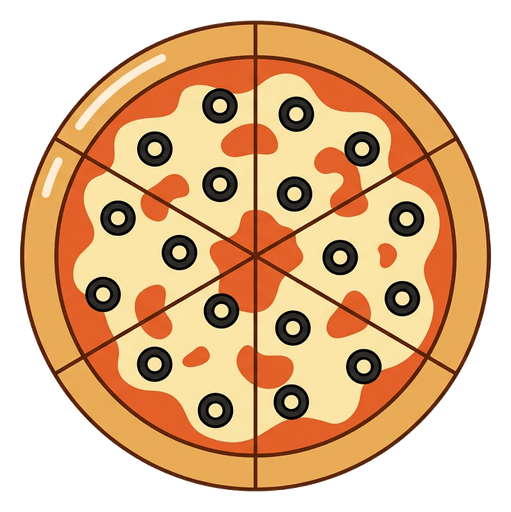
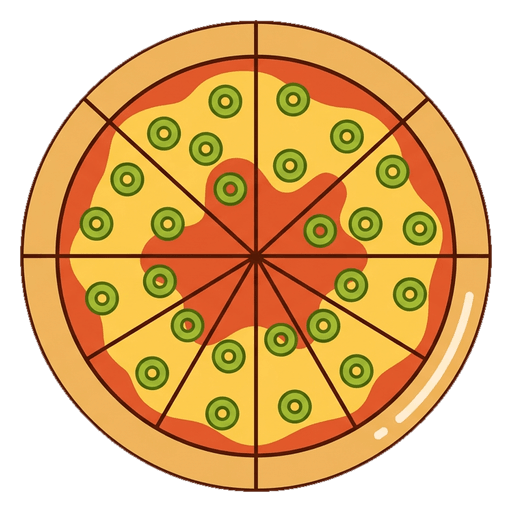
Back-up (niet online): afgekeurde plaatjes ronde 1 opnieuw gemaakt (boek, hoepel, pennenbeker, tekendoos, dozen even groot, olijven groen, stoelenkring, spaarpot met munten, krentenbol, planeet); regel 1.21
Claude-Session: https://claude.ai/code/session_019HGXxT1wyk7NJR8Z8Kb8k1

diff --git a/src/lib/voorwerpen/lijst-meten.ts b/src/lib/voorwerpen/lijst-meten.ts
@@ -31,7 +31,7 @@ export const METEN: Voorwerp[] = [
     naam: "pizza-olijven",
     titel: "Pizza met olijven",
     groep: "eten",
-    onderwerp: "a round pizza with black olive rings seen from above, cut into six slices",
+    onderwerp: "a round pizza with slices of green olives seen from above, cut into six slices",
     schets: `<circle ${R} cx="100" cy="100" r="90" fill="#f0b15c"/><circle cx="100" cy="100" r="74" fill="#e2563f"/><circle cx="72" cy="80" r="14" fill="#ffe08a"/><circle cx="130" cy="120" r="14" fill="#ffe08a"/><circle cx="64" cy="120" r="8" fill="none" stroke="#1d2340" stroke-width="6"/><circle cx="122" cy="74" r="8" fill="none" stroke="#1d2340" stroke-width="6"/><circle cx="100" cy="104" r="8" fill="none" stroke="#1d2340" stroke-width="6"/>`,
   },
   {
@@ -87,7 +87,7 @@ export const METEN: Voorwerp[] = [
     naam: "olijf",
     titel: "Olijf",
     groep: "fruit",
-    onderwerp: "one green olive",
+    onderwerp: "one green olive, oval, shiny",
     schets: `<ellipse ${R} cx="100" cy="100" rx="78" ry="60" fill="#6b8e3a"/><ellipse cx="120" cy="84" rx="18" ry="14" fill="#3d5a1f"/>`,
   },
   {
@@ -137,14 +137,14 @@ export const METEN: Voorwerp[] = [
     naam: "doos-rood",
     titel: "Rode doos",
     groep: "winkel",
-    onderwerp: "a closed flat red cardboard box, seen from the front",
+    onderwerp: "one closed square red cardboard box, seen from the front and slightly above",
     schets: `<rect ${R} x="10" y="74" width="180" height="52" rx="8" fill="#e8453c"/><path d="M20 90 H180" stroke="#1d2340" stroke-width="4"/>`,
   },
   {
     naam: "doos-blauw",
     titel: "Blauwe doos",
     groep: "winkel",
-    onderwerp: "a closed flat blue cardboard box, seen from the front",
+    onderwerp: "one closed square blue cardboard box, seen from the front and slightly above (same box as doos-rood, other color)",
     schets: `<rect ${R} x="10" y="74" width="180" height="52" rx="8" fill="#4b8af5"/><path d="M20 90 H180" stroke="#1d2340" stroke-width="4"/>`,
   },
   {
@@ -222,7 +222,7 @@ export const METEN: Voorwerp[] = [
     naam: "boek",
     titel: "Boek",
     groep: "huis",
-    onderwerp: "one closed blue book lying flat, seen from the side",
+    onderwerp: "one closed blue hardcover book lying flat, seen from slightly above and the side so the cover and the pages are visible",
     schets: `<rect ${R} x="16" y="76" width="168" height="48" rx="6" fill="#4b8af5"/><path d="M160 84 V116" stroke="#fff7ea" stroke-width="5"/>`,
   },
   {

diff --git a/src/lib/voorwerpen/lijst-tijd.ts b/src/lib/voorwerpen/lijst-tijd.ts
@@ -138,14 +138,14 @@ export const TIJD: Voorwerp[] = [
     naam: "stoelenkring",
     titel: "Stoeltjes in een kring",
     groep: "huis",
-    onderwerp: "four small empty colorful school chairs standing in a half circle, seen from the front, large and clear",
+    onderwerp: "six small empty colorful school chairs arranged in a circle, all facing the middle, seen from above at an angle",
     schets: `<ellipse class="r" cx="100" cy="112" rx="80" ry="44" fill="#c9efd2"/><g fill="#f2715e"><rect class="r" x="88" y="52" width="24" height="22" rx="4"/><rect class="r" x="24" y="98" width="24" height="22" rx="4"/><rect class="r" x="152" y="98" width="24" height="22" rx="4"/><rect class="r" x="52" y="140" width="24" height="22" rx="4"/><rect class="r" x="124" y="140" width="24" height="22" rx="4"/></g>`,
   },
   {
     naam: "hoepel",
     titel: "Hoepel met bal",
     groep: "speelgoed",
-    onderwerp: "a coral gymnastics hoop standing upright with a small yellow ball on the floor next to it",
+    onderwerp: "one coral gymnastics hoop standing upright, a simple clean round ring, nothing else",
     schets: `<ellipse class="r" cx="100" cy="128" rx="80" ry="40" fill="none" stroke="#f2715e"/><circle class="r" cx="100" cy="110" r="34" fill="#ffd84a"/>`,
   },
   {

diff --git a/src/lib/voorwerpen/lijst-plussommen.ts b/src/lib/voorwerpen/lijst-plussommen.ts
@@ -46,7 +46,7 @@ export const PLUSSOMMEN: Voorwerp[] = [
     naam: "krentenbol",
     titel: "Krentenbol",
     groep: "eten",
-    onderwerp: "a round shiny brown currant bun with dark raisins, flat bottom, seen from the side",
+    onderwerp: "a round shiny light-brown bread bun with a few dark raisins on top, seen from the side",
     schets: `<path class="r" d="M28 150 C24 30 176 30 172 150 Z" fill="#c8792f"/><ellipse cx="62" cy="120" rx="8" ry="6" fill="#3a1d0b"/><ellipse cx="100" cy="88" rx="8" ry="6" fill="#3a1d0b"/><ellipse cx="136" cy="112" rx="8" ry="6" fill="#3a1d0b"/><ellipse cx="88" cy="132" rx="8" ry="6" fill="#3a1d0b"/><ellipse cx="124" cy="140" rx="8" ry="6" fill="#3a1d0b"/>`,
   },
   {

diff --git a/src/lib/voorwerpen/lijst-geld.ts b/src/lib/voorwerpen/lijst-geld.ts
@@ -13,7 +13,7 @@ export const GELD: Voorwerp[] = [
     naam: "spaarpot",
     titel: "Spaarpot (glazen pot)",
     groep: "huis",
-    onderwerp: "a round glass money jar with a red lid that has a coin slot, empty",
+    onderwerp: "a round glass money jar with a red lid that has a coin slot, with a few gold coins inside at the bottom",
     schets: `<path class="r" d="M58 70 q-30 24 -30 64 q0 54 72 54 q72 0 72 -54 q0 -40 -30 -64z" fill="#cfeaf7"/><rect class="r" x="46" y="40" width="108" height="32" rx="10" fill="#f2715e"/><rect x="78" y="50" width="44" height="9" rx="4" fill="#1d2340"/>`,
   },
   {

diff --git a/src/lib/voorwerpen/lijst-vormen.ts b/src/lib/voorwerpen/lijst-vormen.ts
@@ -58,7 +58,7 @@ export const VORMEN: Voorwerp[] = [
     naam: "tekendoos",
     titel: "Tekendoos",
     groep: "huis",
-    onderwerp: "an open empty wooden box with low sides, seen from the front and slightly above",
+    onderwerp: "an open box of colored pencils, the pencils lying in a row inside, seen from the front and slightly above",
     schets: `<path ${R} d="M20 88 L40 66 H160 L180 88 Z" fill="#8a5a32"/><rect ${R} x="20" y="88" width="160" height="90" rx="6" fill="#d39b62"/>`,
   },
   /* --- de bloembak (patronen) --- */

diff --git a/src/lib/voorwerpen/lijst-splitsen.ts b/src/lib/voorwerpen/lijst-splitsen.ts
@@ -94,7 +94,7 @@ export const SPLITSEN: Voorwerp[] = [
     naam: "pennenbeker",
     titel: "Pennenbeker",
     groep: "huis",
-    onderwerp: "an empty round yellow pencil cup with a thin white stripe, side view",
+    onderwerp: "a round yellow pencil cup filled with a few colored pencils and pens sticking out of the top, side view",
     schets: `<path class="r" d="M50 60 h100 l-10 120 h-80z" fill="#ffc83b"/><ellipse class="r" cx="100" cy="60" rx="50" ry="10" fill="#ffe38a"/>`,
   },
   {

diff --git a/src/lib/voorwerpen/lijst-piraat.ts b/src/lib/voorwerpen/lijst-piraat.ts
@@ -87,7 +87,7 @@ export const PIRAAT: Voorwerp[] = [
     naam: "planeet",
     titel: "Planeet",
     groep: "ruimte",
-    onderwerp: "a small round blue planet with a few light spots",
+    onderwerp: "a small round planet with blue oceans and green land and a few white clouds, clearly a planet",
     schets: `<circle class="r" cx="100" cy="100" r="66" fill="#4f8fe8"/><circle cx="76" cy="80" r="14" fill="#9fc6ff"/><circle cx="128" cy="124" r="10" fill="#9fc6ff"/>`,
   },
   {

diff --git a/MAGNIFIC-PROMPTS.md b/MAGNIFIC-PROMPTS.md
@@ -71,7 +71,7 @@ an orange tangerine with one small green leaf, simple flat illustration for a ch
 Lessen: Pizza's vergelijken (`squla-meten-pizza-1`), Pizza's vergelijken (moeilijker) (`squla-meten-pizza-2`), Pizza's vergelijken (nog moeilijker) (`squla-meten-pizza-3`), Vol, leeg, zwaar en licht (`squla-meten-hoeveelheden-1`), Vol, leeg, zwaar en licht (moeilijker) (`squla-meten-hoeveelheden-2`), Hoe groot is het? (`squla-meten-oppervlakte-1`), Hoe groot is het? (moeilijker) (`squla-meten-oppervlakte-2`)
 
 ```
-one green olive, simple flat illustration for a children's math app: solid flat colors, one soft highlight, thin dark outline, minimal details, no gradients, no shadow, no face, no eyes, no text. Single object centered on a plain pure white background.
+one green olive, oval, shiny, simple flat illustration for a children's math app: solid flat colors, one soft highlight, thin dark outline, minimal details, no gradients, no shadow, no face, no eyes, no text. Single object centered on a plain pure white background.
 ```
 
 ### 8. Peer — `peer.png` — ✅ gegenereerd
@@ -273,7 +273,7 @@ a bowl of orange tomato soup, side view, simple flat illustration for a children
 Lessen: Plussommen in de bakkerij (`squla-plus-bakkerij-1`), Plussommen in de bakkerij (moeilijker) (`squla-plus-bakkerij-2`), Plussommen in de bakkerij (nog moeilijker) (`squla-plus-bakkerij-3`)
 
 ```
-a round shiny brown currant bun with dark raisins, flat bottom, seen from the side, simple flat illustration for a children's math app: solid flat colors, one soft highlight, thin dark outline, minimal details, no gradients, no shadow, no face, no eyes, no text. Single object centered on a plain pure white background.
+a round shiny light-brown bread bun with a few dark raisins on top, seen from the side, simple flat illustration for a children's math app: solid flat colors, one soft highlight, thin dark outline, minimal details, no gradients, no shadow, no face, no eyes, no text. Single object centered on a plain pure white background.
 ```
 
 ### 33. Leeg hoorntje — `hoorntje.png` — ✅ gegenereerd
@@ -313,7 +313,7 @@ a round cheese pizza seen from above, tomato sauce and melted cheese, cut into s
 Lessen: Pizza's vergelijken (`squla-meten-pizza-1`), Pizza's vergelijken (moeilijker) (`squla-meten-pizza-2`), Pizza's vergelijken (nog moeilijker) (`squla-meten-pizza-3`), Vol, leeg, zwaar en licht (`squla-meten-hoeveelheden-1`), Vol, leeg, zwaar en licht (moeilijker) (`squla-meten-hoeveelheden-2`), Hoe groot is het? (`squla-meten-oppervlakte-1`), Hoe groot is het? (moeilijker) (`squla-meten-oppervlakte-2`)
 
 ```
-a round pizza with black olive rings seen from above, cut into six slices, simple flat illustration for a children's math app: solid flat colors, one soft highlight, thin dark outline, minimal details, no gradients, no shadow, no face, no eyes, no text. Single object centered on a plain pure white background.
+a round pizza with slices of green olives seen from above, cut into six slices, simple flat illustration for a children's math app: solid flat colors, one soft highlight, thin dark outline, minimal details, no gradients, no shadow, no face, no eyes, no text. Single object centered on a plain pure white background.
 ```
 
 ### 38. Pizza met salami — `pizza-salami.png` — ✅ gegenereerd
@@ -403,7 +403,7 @@ an orange basketball with black lines, simple flat illustration for a children's
 Lessen: Dagen van de week (`squla-tijd-dagen-1`), Dagen van de week (moeilijker) (`squla-tijd-dagen-2`), Dagen van de week (nog moeilijker) (`squla-tijd-dagen-3`), De kalender (`squla-tijd-kalender-1`), De kalender (moeilijker) (`squla-tijd-kalender-2`), Tijden (`squla-tijd-tijden-1`), Tijden (moeilijker) (`squla-tijd-tijden-2`)
 
 ```
-a coral gymnastics hoop standing upright with a small yellow ball on the floor next to it, simple flat illustration for a children's math app: solid flat colors, one soft highlight, thin dark outline, minimal details, no gradients, no shadow, no face, no eyes, no text. Single object centered on a plain pure white background.
+one coral gymnastics hoop standing upright, a simple clean round ring, nothing else, simple flat illustration for a children's math app: solid flat colors, one soft highlight, thin dark outline, minimal details, no gradients, no shadow, no face, no eyes, no text. Single object centered on a plain pure white background.
 ```
 
 ### 49. Knikker — `knikker.png` — ✅ gegenereerd
@@ -589,7 +589,7 @@ a big old silver-grey rocket with rivets and a small round door, standing uprigh
 Lessen: Getallen op hun plek (`squla-getallenlijn-rangschikken-1`), Getallen op hun plek (moeilijker) (`squla-getallenlijn-rangschikken-2`), Getallen op hun plek (nog moeilijker) (`squla-getallenlijn-rangschikken-3`), Het raketje op de getallenlijn (`squla-getallenlijn-kat-1`), Het raketje op de getallenlijn (moeilijker) (`squla-getallenlijn-kat-2`), Dingen op de getallen (`squla-getallenlijn-dieren-1`), Dingen op de getallen (moeilijker) (`squla-getallenlijn-dieren-2`), Dingen op de getallen (nog moeilijker) (`squla-getallenlijn-dieren-3`), Terugtellen tot de start (`squla-getallenlijn-terugtellen-1`), Schattenjacht: plussommen (`squla-piraat-1`), Schattenjacht: plus en min (`squla-piraat-3`), Rekenmix 1 (moeilijker) (`squla-rekenmix-mix1-2`), Rekenmix 1 (nog moeilijker) (`squla-rekenmix-mix1-3`), Rekenmix 3 (moeilijker) (`squla-rekenmix-mix3-2`), Rekenmix 4 (`squla-rekenmix-mix4-1`), Rekenmix 4 (nog moeilijker) (`squla-rekenmix-mix4-3`), Tellen in rijtjes (nog moeilijker) (`squla-tellen-resultatief1-3`), Hoeveel zie je? (`squla-tellen-resultatief2-1`), Grote groepen tellen (`squla-tellen-resultatief3-1`), Grote groepen tellen (moeilijker) (`squla-tellen-resultatief3-2`), Grote groepen tellen (nog moeilijker) (`squla-tellen-resultatief3-3`), Patronen (moeilijker) (`squla-vormen-patronen-2`)
 
 ```
-a small round blue planet with a few light spots, simple flat illustration for a children's math app: solid flat colors, one soft highlight, thin dark outline, minimal details, no gradients, no shadow, no face, no eyes, no text. Single object centered on a plain pure white background.
+a small round planet with blue oceans and green land and a few white clouds, clearly a planet, simple flat illustration for a children's math app: solid flat colors, one soft highlight, thin dark outline, minimal details, no gradients, no shadow, no face, no eyes, no text. Single object centered on a plain pure white background.
 ```
 
 ### 72. Planeet met ring — `planeet-ring.png` — ✅ gegenereerd
@@ -689,7 +689,7 @@ a broom with a wooden stick and yellow bristles, simple flat illustration for a 
 Lessen: Zakgeld sparen (moeilijker) (`squla-geld-zakgeld-2`), Pizza's vergelijken (`squla-meten-pizza-1`), Pizza's vergelijken (moeilijker) (`squla-meten-pizza-2`), Pizza's vergelijken (nog moeilijker) (`squla-meten-pizza-3`), Vol, leeg, zwaar en licht (`squla-meten-hoeveelheden-1`), Vol, leeg, zwaar en licht (moeilijker) (`squla-meten-hoeveelheden-2`), Hoe groot is het? (`squla-meten-oppervlakte-1`), Hoe groot is het? (moeilijker) (`squla-meten-oppervlakte-2`), Minsommen: hoeveel over? (heel moeilijk) (`squla-min-machine-4`), Rekenmix 1 (moeilijker) (`squla-rekenmix-mix1-2`), Dagen van de week (`squla-tijd-dagen-1`), Dagen van de week (moeilijker) (`squla-tijd-dagen-2`), Dagen van de week (nog moeilijker) (`squla-tijd-dagen-3`), De kalender (`squla-tijd-kalender-1`), De kalender (moeilijker) (`squla-tijd-kalender-2`), Tijden (`squla-tijd-tijden-1`), Tijden (moeilijker) (`squla-tijd-tijden-2`), Patronen (`squla-vormen-patronen-1`), Patronen (moeilijker) (`squla-vormen-patronen-2`), Opruimen (`squla-vormen-opruimen-1`), Links, rechts, boven, onder (`squla-vormen-orienteren-1`)
 
 ```
-one closed blue book lying flat, seen from the side, simple flat illustration for a children's math app: solid flat colors, one soft highlight, thin dark outline, minimal details, no gradients, no shadow, no face, no eyes, no text. Single object centered on a plain pure white background.
+one closed blue hardcover book lying flat, seen from slightly above and the side so the cover and the pages are visible, simple flat illustration for a children's math app: solid flat colors, one soft highlight, thin dark outline, minimal details, no gradients, no shadow, no face, no eyes, no text. Single object centered on a plain pure white background.
 ```
 
 ### 84. Bord — `bord.png` — ✅ gegenereerd
@@ -865,7 +865,7 @@ a grey kitchen oven seen from the front, with a round cake tin with cake batter 
 Lessen: Eerlijk verdelen (`squla-splits-delen-1`)
 
 ```
-an empty round yellow pencil cup with a thin white stripe, side view, simple flat illustration for a children's math app: solid flat colors, one soft highlight, thin dark outline, minimal details, no gradients, no shadow, no face, no eyes, no text. Single object centered on a plain pure white background.
+a round yellow pencil cup filled with a few colored pencils and pens sticking out of the top, side view, simple flat illustration for a children's math app: solid flat colors, one soft highlight, thin dark outline, minimal details, no gradients, no shadow, no face, no eyes, no text. Single object centered on a plain pure white background.
 ```
 
 ### 106. Picknickkleed — `picknickkleed.png` — ✅ gegenereerd
@@ -961,7 +961,7 @@ an old golden key, lying sideways, simple flat illustration for a children's mat
 Lessen: Munten en briefjes (`squla-geld-geldmachine-1`), Munten en briefjes (moeilijker) (`squla-geld-geldmachine-2`), Zakgeld sparen (`squla-geld-zakgeld-1`), Zakgeld sparen (moeilijker) (`squla-geld-zakgeld-2`), Geld tellen (`squla-geld-geld-1`), Geld tellen (moeilijker) (`squla-geld-geld-2`)
 
 ```
-a round glass money jar with a red lid that has a coin slot, empty, simple flat illustration for a children's math app: solid flat colors, one soft highlight, thin dark outline, minimal details, no gradients, no shadow, no face, no eyes, no text. Single object centered on a plain pure white background.
+a round glass money jar with a red lid that has a coin slot, with a few gold coins inside at the bottom, simple flat illustration for a children's math app: solid flat colors, one soft highlight, thin dark outline, minimal details, no gradients, no shadow, no face, no eyes, no text. Single object centered on a plain pure white background.
 ```
 
 ### 118. Splitsmachine — `splitsmachine.png` — ✅ gegenereerd
@@ -977,7 +977,7 @@ a simple box-shaped toy machine with a funnel on top and two chutes at the botto
 Lessen: Dagen van de week (`squla-tijd-dagen-1`), Dagen van de week (moeilijker) (`squla-tijd-dagen-2`), Dagen van de week (nog moeilijker) (`squla-tijd-dagen-3`), De kalender (`squla-tijd-kalender-1`), De kalender (moeilijker) (`squla-tijd-kalender-2`), Tijden (`squla-tijd-tijden-1`), Tijden (moeilijker) (`squla-tijd-tijden-2`)
 
 ```
-four small empty colorful school chairs standing in a half circle, seen from the front, large and clear, simple flat illustration for a children's math app: solid flat colors, one soft highlight, thin dark outline, minimal details, no gradients, no shadow, no face, no eyes, no text. Single object centered on a plain pure white background.
+six small empty colorful school chairs arranged in a circle, all facing the middle, seen from above at an angle, simple flat illustration for a children's math app: solid flat colors, one soft highlight, thin dark outline, minimal details, no gradients, no shadow, no face, no eyes, no text. Single object centered on a plain pure white background.
 ```
 
 ### 120. T-shirt — `t-shirt.png` — ✅ gegenereerd
@@ -1001,7 +1001,7 @@ one clean white tooth with two roots, front view, simple flat illustration for a
 Lessen: Opruimen (`squla-vormen-opruimen-1`)
 
 ```
-an open empty wooden box with low sides, seen from the front and slightly above, simple flat illustration for a children's math app: solid flat colors, one soft highlight, thin dark outline, minimal details, no gradients, no shadow, no face, no eyes, no text. Single object centered on a plain pure white background.
+an open box of colored pencils, the pencils lying in a row inside, seen from the front and slightly above, simple flat illustration for a children's math app: solid flat colors, one soft highlight, thin dark outline, minimal details, no gradients, no shadow, no face, no eyes, no text. Single object centered on a plain pure white background.
 ```
 
 ### 123. Thermometer — `thermometer.png` — ✅ gegenereerd
@@ -1051,7 +1051,7 @@ a small bakery shop building seen from the front, with a striped awning, a big w
 Lessen: Pizza's vergelijken (`squla-meten-pizza-1`), Pizza's vergelijken (moeilijker) (`squla-meten-pizza-2`), Pizza's vergelijken (nog moeilijker) (`squla-meten-pizza-3`), Vol, leeg, zwaar en licht (`squla-meten-hoeveelheden-1`), Vol, leeg, zwaar en licht (moeilijker) (`squla-meten-hoeveelheden-2`), Hoe groot is het? (`squla-meten-oppervlakte-1`), Hoe groot is het? (moeilijker) (`squla-meten-oppervlakte-2`)
 
 ```
-a closed flat blue cardboard box, seen from the front, simple flat illustration for a children's math app: solid flat colors, one soft highlight, thin dark outline, minimal details, no gradients, no shadow, no face, no eyes, no text. Single object centered on a plain pure white background.
+one closed square blue cardboard box, seen from the front and slightly above (same box as doos-rood, other color), simple flat illustration for a children's math app: solid flat colors, one soft highlight, thin dark outline, minimal details, no gradients, no shadow, no face, no eyes, no text. Single object centered on a plain pure white background.
 ```
 
 ### 129. Diamant — `diamant.png` — ✅ gegenereerd
@@ -1163,7 +1163,7 @@ a closed brown wallet with a round golden clasp, front view, simple flat illustr
 Lessen: Pizza's vergelijken (`squla-meten-pizza-1`), Pizza's vergelijken (moeilijker) (`squla-meten-pizza-2`), Pizza's vergelijken (nog moeilijker) (`squla-meten-pizza-3`), Vol, leeg, zwaar en licht (`squla-meten-hoeveelheden-1`), Vol, leeg, zwaar en licht (moeilijker) (`squla-meten-hoeveelheden-2`), Hoe groot is het? (`squla-meten-oppervlakte-1`), Hoe groot is het? (moeilijker) (`squla-meten-oppervlakte-2`)
 
 ```
-a closed flat red cardboard box, seen from the front, simple flat illustration for a children's math app: solid flat colors, one soft highlight, thin dark outline, minimal details, no gradients, no shadow, no face, no eyes, no text. Single object centered on a plain pure white background.
+one closed square red cardboard box, seen from the front and slightly above, simple flat illustration for a children's math app: solid flat colors, one soft highlight, thin dark outline, minimal details, no gradients, no shadow, no face, no eyes, no text. Single object centered on a plain pure white background.
 ```
 
 ### 143. Volle picknickmand — `mand-vol.png` — ✅ gegenereerd

diff --git a/PLAATJES-STAND.md b/PLAATJES-STAND.md
@@ -9,7 +9,7 @@ Gemaakt door `npm run voorwerpen`. 172 vervangen, 2 nog open.
 - ✅ 4. Citroen — `citroen.png` (versie 3)
 - ✅ 5. Kers — `kers.png` (versie 3)
 - ✅ 6. Mandarijn — `mandarijn.png` (versie 3)
-- ✅ 7. Olijf — `olijf.png` (versie 3)
+- ✅ 7. Olijf — `olijf.png` (versie 5)
 - ✅ 8. Peer — `peer.png` (versie 3)
 - ✅ 9. Pruim — `pruim.png` (versie 3)
 - ✅ 10. Tomaat — `tomaat.png` (versie 3)
@@ -34,11 +34,11 @@ Gemaakt door `npm run voorwerpen`. 172 vervangen, 2 nog open.
 - ✅ 29. Koekje — `koekje.png` (versie 3)
 - ✅ 30. Kom met deeg — `deegkom.png` (versie 3)
 - ✅ 31. Kom soep — `kom-soep.png` (versie 3)
-- ✅ 32. Krentenbol — `krentenbol.png` (versie 3)
+- ✅ 32. Krentenbol — `krentenbol.png` (versie 4)
 - ✅ 33. Leeg hoorntje — `hoorntje.png` (versie 3)
 - ✅ 35. Lege beker — `beker-leeg.png` (versie 3)
 - ✅ 36. Pizza met kaas — `pizza-kaas.png` (versie 3)
-- ✅ 37. Pizza met olijven — `pizza-olijven.png` (versie 3)
+- ✅ 37. Pizza met olijven — `pizza-olijven.png` (versie 4)
 - ✅ 38. Pizza met salami — `pizza-salami.png` (versie 3)
 - ✅ 39. Punt pizza — `pizzapunt.png` (versie 3)
 - ✅ 40. Spiesje met twee stukjes fruit — `spies-twee.png` (versie 3)
@@ -49,7 +49,7 @@ Gemaakt door `npm run voorwerpen`. 172 vervangen, 2 nog open.
 - ✅ 45. Wit brood — `brood.png` (versie 3)
 - ✅ 46. Zak chips — `zak-chips.png` (versie 3)
 - ✅ 47. Basketbal — `basketbal.png` (versie 3)
-- ✅ 48. Hoepel met bal — `hoepel.png` (versie 4)
+- ✅ 48. Hoepel met bal — `hoepel.png` (versie 7)
 - ✅ 49. Knikker — `knikker.png` (versie 3)
 - ✅ 50. Kraal — `kraal.png` (versie 3)
 - ✅ 51. Pingpongbal — `pingpongbal.png` (versie 3)
@@ -72,7 +72,7 @@ Gemaakt door `npm run voorwerpen`. 172 vervangen, 2 nog open.
 - ✅ 68. Maan — `maan.png` (versie 3)
 - ✅ 69. Maansteen — `maansteen.png` (versie 3)
 - ✅ 70. Oude raket — `oude-raket.png` (versie 4)
-- ✅ 71. Planeet — `planeet.png` (versie 3)
+- ✅ 71. Planeet — `planeet.png` (versie 4)
 - ✅ 72. Planeet met ring — `planeet-ring.png` (versie 3)
 - ✅ 73. Raketje — `raketje.png` (versie 3)
 - ✅ 74. Satelliet — `satelliet.png` (versie 3)
@@ -84,7 +84,7 @@ Gemaakt door `npm run voorwerpen`. 172 vervangen, 2 nog open.
 - ✅ 80. Bakje — `bakje.png` (versie 3)
 - ✅ 81. Bed — `bed.png` (versie 3)
 - ✅ 82. Bezem — `bezem.png` (versie 3)
-- ✅ 83. Boek — `boek.png` (versie 3)
+- ✅ 83. Boek — `boek.png` (versie 4)
 - ✅ 84. Bord — `bord.png` (versie 3)
 - ✅ 85. Draaitafel — `draaitafel.png` (versie 3)
 - ✅ 86. Emmer met sop — `emmer.png` (versie 3)
@@ -106,7 +106,7 @@ Gemaakt door `npm run voorwerpen`. 172 vervangen, 2 nog open.
 - ✅ 102. Oven — `oven.png` (versie 3)
 - ✅ 103. Oven met brood erin — `oven-brood.png` (versie 3)
 - ✅ 104. Oven met taart erin — `oven-taart.png` (versie 3)
-- ✅ 105. Pennenbeker — `pennenbeker.png` (versie 4)
+- ✅ 105. Pennenbeker — `pennenbeker.png` (versie 5)
 - ✅ 106. Picknickkleed — `picknickkleed.png` (versie 4)
 - ✅ 107. Pizzaoven — `pizzaoven.png` (versie 3)
 - ✅ 108. Potlood — `potlood.png` (versie 3)
@@ -118,17 +118,17 @@ Gemaakt door `npm run voorwerpen`. 172 vervangen, 2 nog open.
 - ✅ 114. Schoen — `schoen.png` (versie 3)
 - ✅ 115. Schoolbord — `schoolbord.png` (versie 4)
 - ✅ 116. Sleutel — `sleutel.png` (versie 3)
-- ✅ 117. Spaarpot (glazen pot) — `spaarpot.png` (versie 3)
+- ✅ 117. Spaarpot (glazen pot) — `spaarpot.png` (versie 4)
 - ✅ 118. Splitsmachine — `splitsmachine.png` (versie 3)
-- ✅ 119. Stoeltjes in een kring — `stoelenkring.png` (versie 4)
+- ✅ 119. Stoeltjes in een kring — `stoelenkring.png` (versie 7)
 - ✅ 120. T-shirt — `t-shirt.png` (versie 3)
 - ✅ 121. Tand — `tand.png` (versie 3)
-- ✅ 122. Tekendoos — `tekendoos.png` (versie 4)
+- ✅ 122. Tekendoos — `tekendoos.png` (versie 5)
 - ✅ 123. Thermometer — `thermometer.png` (versie 3)
 - ✅ 124. Wandplank — `wandplank.png` (versie 4)
 - ✅ 126. Zandloper — `zandloper.png` (versie 3)
 - ✅ 127. Bakkerij — `bakkerij.png` (versie 3)
-- ✅ 128. Blauwe doos — `doos-blauw.png` (versie 3)
+- ✅ 128. Blauwe doos — `doos-blauw.png` (versie 4)
 - ✅ 129. Diamant — `diamant.png` (versie 3)
 - ✅ 130. Dichte pizzadoos — `pizzadoos.png` (versie 4)
 - ✅ 131. Dichte zak — `zak.png` (versie 3)
@@ -142,7 +142,7 @@ Gemaakt door `npm run voorwerpen`. 172 vervangen, 2 nog open.
 - ✅ 139. Pakje — `pakje.png` (versie 4)
 - ✅ 140. Picknickmand met een beetje fruit — `mand-half.png` (versie 3)
 - ✅ 141. Portemonnee — `portemonnee.png` (versie 3)
-- ✅ 142. Rode doos — `doos-rood.png` (versie 3)
+- ✅ 142. Rode doos — `doos-rood.png` (versie 4)
 - ✅ 143. Volle picknickmand — `mand-vol.png` (versie 3)
 - ✅ 144. Zak meel — `zak-meel.png` (versie 3)
 - ✅ 145. Ballon — `ballon.png` (versie 3)

diff --git a/BOUWREGELS.md b/BOUWREGELS.md
@@ -37,6 +37,7 @@ Alles hieronder geldt, tenzij er "vervangen" staat. Staat er "TWIJFEL", dan staa
 1.18 **Geen witte randjes om plaatjes.** De achtergrond is helemaal weg, ook wit in de randpixels; de rand is 1-2 pixels ingekort (scripts/inbox/randen.mjs, zit ook in de vaste verwerkstap). Ingesloten wit dat geen deel van het ding is (gat van een donut, binnenkant van een hoepel) is doorzichtig. De controleur checkt dit op schermfoto's. — G:1 nov — 1 nov
 1.19 **Geen zichtbare pixels, niets vaags, niets te klein.** Plaatjes zijn scherp (512 px bron), niet ouderwets of clipart-achtig, en wijken niet af van de rest (voorbeeld: de oude bus was lelijk; de vormen in glansstijl B zijn mooi). Eerst zelf verbeteren in stijl B (code/SVG); lukt dat niet mooi, dan opnieuw in Magnific (Nano Banana 2, 1K). Het oude plaatje gaat altijd naar plaatjes-backup/. — G:1 nov — 1 nov
 1.20 **Elk plaatje past bij de les.** Voorbeeld: bij klokkijken een klok, wekker of zandloper, geen plantje (squla-klok-hoelaat-1). De controleur keurt alle plaatjes via schermfoto's (randjes, pixels, glans B, past bij de les, niet ouderwets of lelijk); afgekeurd = opnieuw verbeteren tot hij goedkeurt. Sara keurt zelf niets (geen keurpagina). — G:1 nov — 1 nov
+1.21 **Vervangen = eerst begrijpen waarom iets er staat, dan iets kiezen met dezelfde rol dat óók bij de les past.** Een plaatje of figuur heeft altijd een doel in de vraag of het verhaal. Voorbeeld: het plantje in squla-klok-hoelaat-1 hoort bij een dagverhaal waarin op vaste tijden iets gebeurt (water, lampje). Vervang je het, dan moet het nieuwe ding ook een dagverhaal met tijden dragen (bijvoorbeeld de bezorgbus die om 8 uur vertrekt), niet zomaar een wekker ("hoe laat krijgt de wekker water?" is onzin). Controleer daarna of vraag, antwoord en zinnen nog kloppen. De controleur keurt hierop. — G:1 nov — 1 nov
 
 ## 2. Kleuren
 
